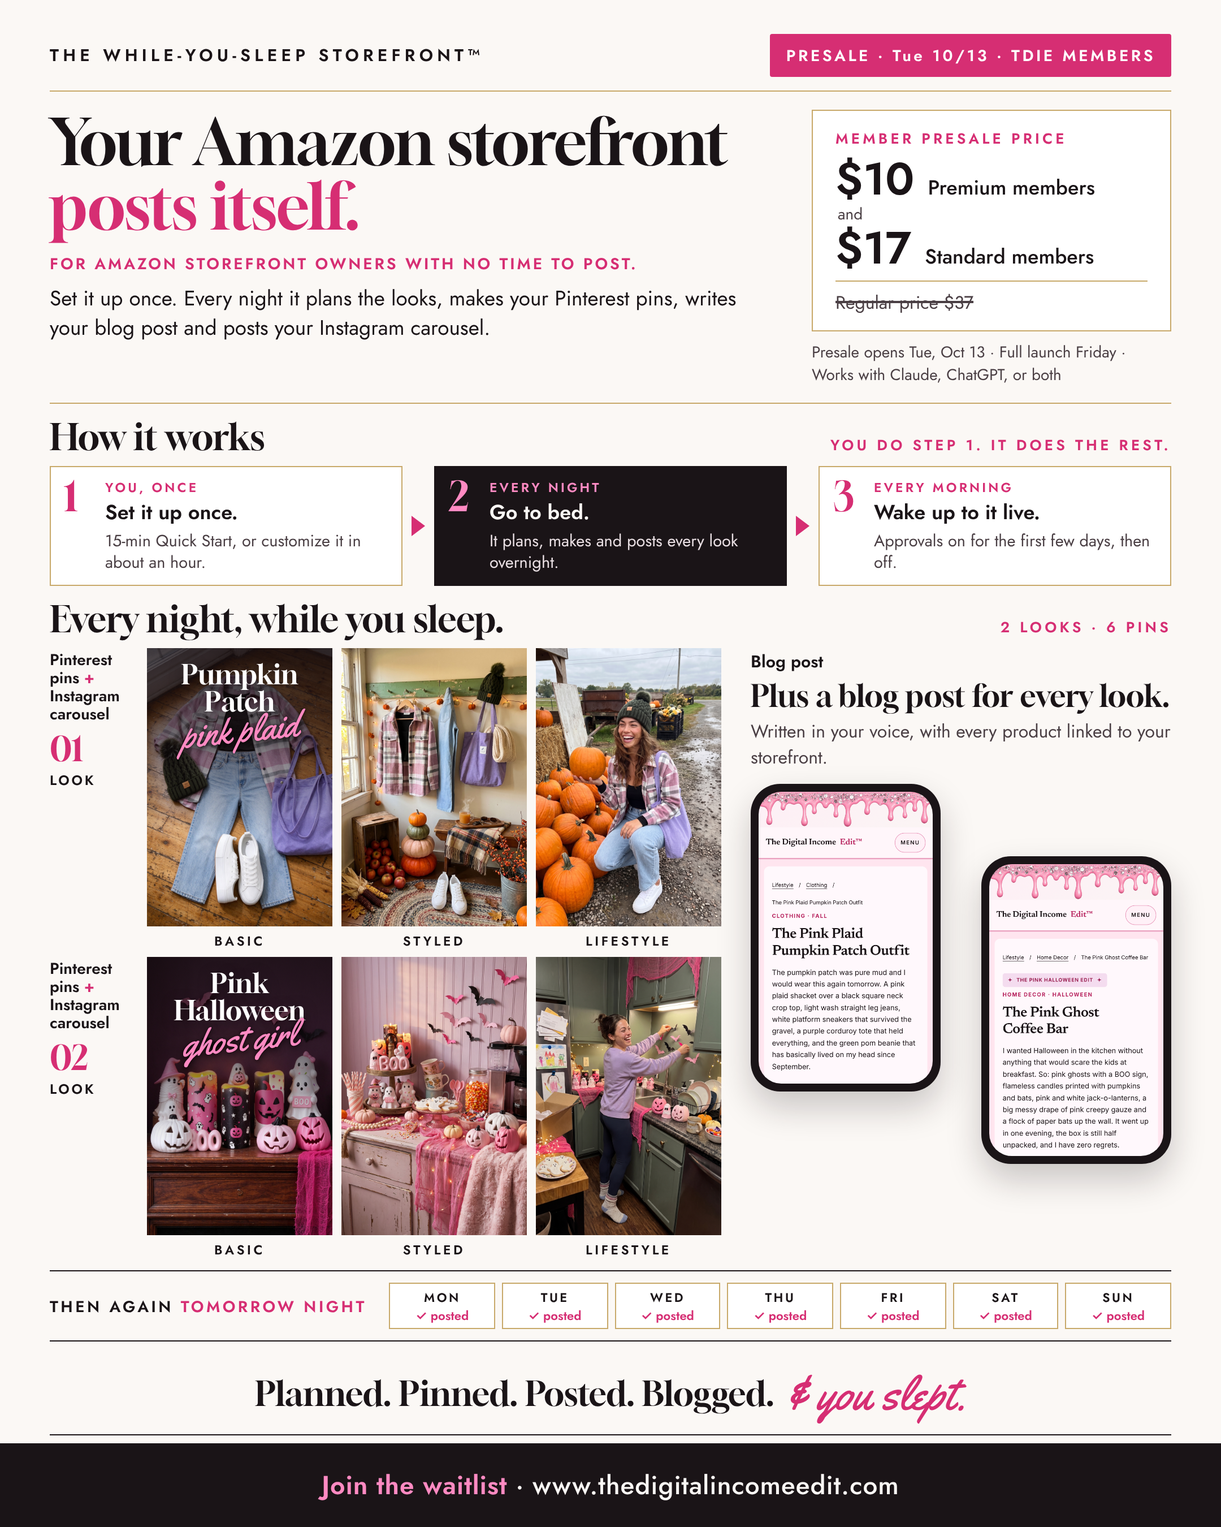
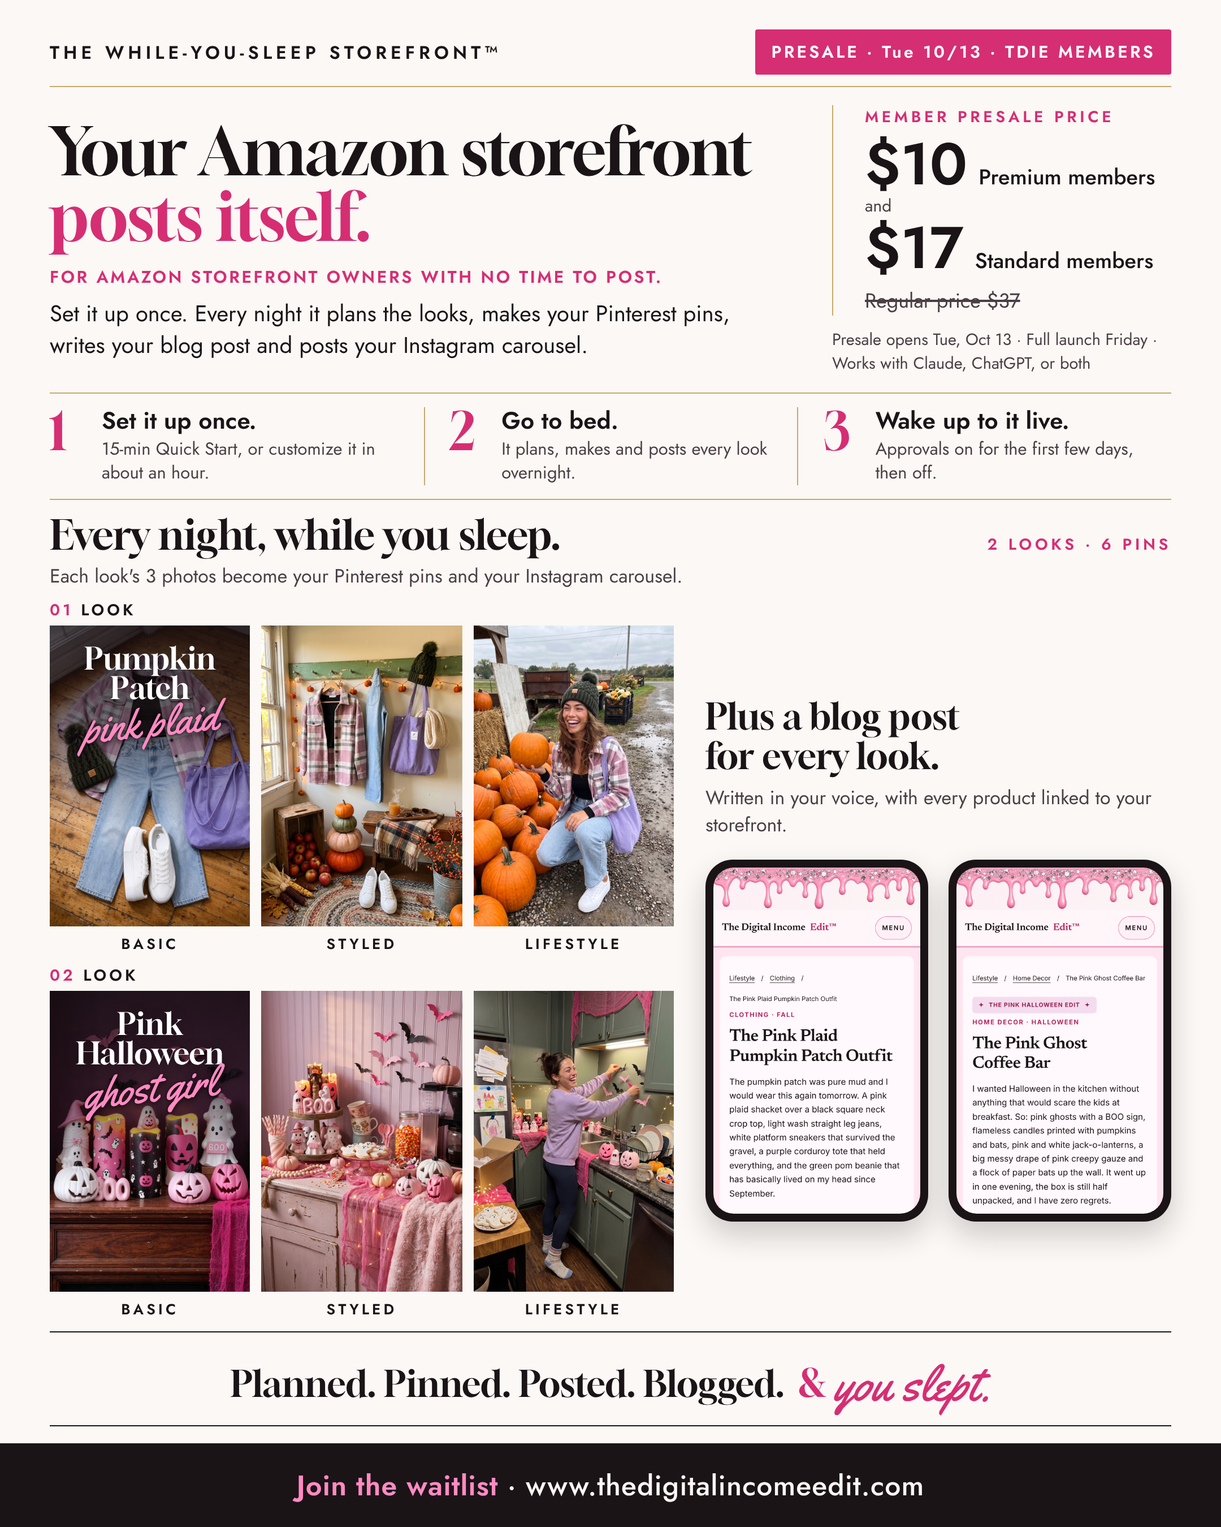
WYS poster: designer/customer audit pass
Remove week strip and label column, unbox steps, bigger photos, one-line
explanation that each look's photos are the pins and the carousel, phones
side by side, fix the script ampersand, balanced headline breaks.

Claude-Session: https://claude.ai/code/session_01PnXq8563XBZe9JqR7UM4ct

diff --git a/ops/posters/wys-presale-2026-10/poster.html b/ops/posters/wys-presale-2026-10/poster.html
@@ -7,154 +7,126 @@
 @font-face { font-family: "Gloock"; src: url("fonts/Gloock-Regular.ttf"); font-display: block; }
 @font-face { font-family: "Yellowtail"; src: url("fonts/Yellowtail-Regular.ttf"); font-display: block; }
 @font-face { font-family: "Jost"; src: url("fonts/Jost.ttf"); font-weight: 100 900; font-display: block; }
+:root { --cream:#FBF8F5; --ink:#1A1417; --hot:#D62E73; --bubble:#FF8AC2; --gold:#C8A96A; --muted:#4a3f44; --pad:44px; }
+* { box-sizing:border-box; margin:0; padding:0; }
+html, body { background:var(--cream); }
+body { width:1080px; color:var(--ink); font-family:"Jost",sans-serif; -webkit-font-smoothing:antialiased; }
+.poster { width:1080px; background:var(--cream); }
+.fb .poster { height:1350px; overflow:hidden; display:flex; flex-direction:column; }
+.inner { padding:0 var(--pad); }
+.fb .inner { flex:1; display:flex; flex-direction:column; }
+.gold-rule { height:1px; background:var(--gold); }
+.label { font-weight:600; font-size:14px; letter-spacing:0.2em; text-transform:uppercase; }
+.pink { color:var(--hot); }
 
-:root { --cream: #FBF8F5; --ink: #1A1417; --hot: #D62E73; --bubble: #FF8AC2; --gold: #C8A96A; --muted: #4a3f44; --pad: 44px; }
-* { box-sizing: border-box; margin: 0; padding: 0; }
-html, body { background: var(--cream); }
-body { width: 1080px; color: var(--ink); font-family: "Jost", sans-serif; -webkit-font-smoothing: antialiased; }
-.poster { width: 1080px; background: var(--cream); }
-.fb .poster { height: 1350px; overflow: hidden; display: flex; flex-direction: column; }
-.inner { padding: 0 var(--pad); }
-.fb .inner { flex: 1; display: flex; flex-direction: column; }
-.gold-rule { height: 1px; background: var(--gold); }
-.label { font-weight: 600; font-size: 13px; letter-spacing: 0.2em; text-transform: uppercase; }
-.pink { color: var(--hot); }
+.topline { display:flex; justify-content:space-between; align-items:center; padding:30px 0 12px; }
+.kicker { font-weight:600; font-size:16px; letter-spacing:0.22em; }
+.badge { background:var(--hot); color:#fff; font-weight:600; font-size:15px; letter-spacing:0.14em; padding:9px 14px; border-radius:2px; }
 
-/* top line */
-.topline { display: flex; justify-content: space-between; align-items: center; padding: 30px 0 12px; }
-.kicker { font-weight: 600; font-size: 15px; letter-spacing: 0.24em; }
-.badge { background: var(--hot); color: #fff; font-weight: 600; font-size: 14px; letter-spacing: 0.16em; padding: 9px 14px; border-radius: 2px; }
+.hero { display:grid; grid-template-columns:minmax(0,1fr) 300px; gap:40px; padding:20px 0 20px; align-items:center; }
+h1 { font-family:"Gloock",serif; font-weight:400; font-size:62px; line-height:1.0; letter-spacing:-0.01em; }
+h1 em { font-style:normal; color:var(--hot); }
+.who-for { font-weight:600; font-size:15px; letter-spacing:0.12em; text-transform:uppercase; color:var(--hot); margin-top:14px; }
+.sub { font-size:20px; line-height:1.4; margin-top:8px; }
+.price { padding-left:28px; border-left:1px solid var(--gold); }
+.price-row { display:flex; align-items:baseline; gap:10px; margin-top:6px; }
+.price-row .amt { font-weight:600; font-size:52px; line-height:1; }
+.price-row .who { font-size:19px; font-weight:500; line-height:1.1; }
+.price-and { font-size:15px; color:var(--muted); }
+.price-reg { margin-top:8px; font-size:18px; text-decoration:line-through; text-decoration-thickness:1.5px; color:var(--muted); }
+.sidenote { font-size:14.5px; line-height:1.45; margin-top:10px; color:var(--muted); }
 
-/* hero */
-.hero { display: grid; grid-template-columns: minmax(0, 1fr) 318px; gap: 36px; padding: 18px 0 18px; align-items: start; }
-h1 { font-family: "Gloock", serif; font-weight: 400; font-size: 56px; line-height: 1.02; letter-spacing: -0.01em; }
-h1 em { font-style: normal; color: var(--hot); }
-.who-for { font-weight: 600; font-size: 14px; letter-spacing: 0.14em; text-transform: uppercase; color: var(--hot); margin-top: 12px; }
-.sub { font-size: 18.5px; line-height: 1.42; margin-top: 8px; }
-.price { border: 1px solid var(--gold); background: #fff; padding: 15px 20px 13px; }
-.price-row { display: flex; align-items: baseline; gap: 12px; margin-top: 6px; }
-.price-row .amt { font-weight: 600; font-size: 44px; line-height: 1; }
-.price-row .who { font-size: 18px; font-weight: 500; }
-.price-and { font-size: 14px; color: var(--muted); margin-left: 2px; }
-.price-reg { margin-top: 8px; padding-top: 7px; border-top: 1px solid var(--gold); font-size: 16px; text-decoration: line-through; text-decoration-thickness: 1.5px; color: var(--muted); }
-.sidenote { font-size: 14px; line-height: 1.45; margin-top: 8px; color: var(--muted); }
+.steps { display:grid; grid-template-columns:repeat(3,minmax(0,1fr)); padding:16px 0; }
+.step { display:grid; grid-template-columns:38px minmax(0,1fr); gap:8px; padding:0 22px; border-left:1px solid var(--gold); }
+.step:first-child { border-left:0; padding-left:0; }
+.step .num { font-family:"Gloock",serif; font-size:46px; line-height:0.9; color:var(--hot); }
+.step b { display:block; font-weight:600; font-size:21px; line-height:1.15; }
+.step span { display:block; font-size:15.5px; line-height:1.35; margin-top:3px; color:var(--muted); }
 
-/* system: 3 steps as a flow */
-.sys-head { display: flex; justify-content: space-between; align-items: baseline; padding: 16px 0 10px; }
-h2 { font-family: "Gloock", serif; font-weight: 400; font-size: 32px; line-height: 1.1; }
-.flow { display: grid; grid-template-columns: minmax(0,1fr) 28px minmax(0,1fr) 28px minmax(0,1fr); align-items: stretch; }
-.stage { border: 1px solid var(--gold); background: #fff; padding: 12px 14px 12px; display: grid; grid-template-columns: 30px minmax(0,1fr); gap: 6px; }
-.stage .num { font-family: "Gloock", serif; font-size: 36px; line-height: 0.9; color: var(--hot); }
-.stage .when { font-weight: 600; font-size: 11.5px; letter-spacing: 0.18em; color: var(--hot); display: block; }
-.stage b { display: block; font-weight: 600; font-size: 18px; margin-top: 1px; }
-.stage span.t { display: block; font-size: 14.5px; line-height: 1.35; margin-top: 2px; color: var(--muted); }
-.stage.night { background: var(--ink); color: var(--cream); border-color: var(--ink); }
-.stage.night .num, .stage.night .when { color: var(--bubble); }
-.stage.night span.t { color: #e9dfe3; }
-.arrow { display: flex; align-items: center; justify-content: center; }
-.arrow::before { content: ""; width: 0; height: 0; border-top: 9px solid transparent; border-bottom: 9px solid transparent; border-left: 12px solid var(--hot); }
+.sec { padding:16px 0 12px; }
+.sec-top { display:flex; justify-content:space-between; align-items:baseline; }
+h2 { font-family:"Gloock",serif; font-weight:400; font-size:36px; line-height:1.08; }
+.sec p { font-size:17px; margin-top:4px; color:var(--muted); }
 
-/* outputs */
-.makes { display: flex; justify-content: space-between; align-items: baseline; padding: 16px 0 10px; }
-.out-grid { display: grid; grid-template-columns: minmax(0, 1fr) 292px; gap: 24px; }
-.channel { display: grid; grid-template-columns: 74px minmax(0, 1fr); gap: 12px; margin-bottom: 10px; }
-.ch-name { padding-top: 2px; }
-.ch-name .p { font-weight: 600; font-size: 15px; display: block; line-height: 1.15; }
-.ch-name .look { display: block; margin-top: 8px; font-family: "Gloock", serif; font-size: 30px; line-height: 1; color: var(--hot); }
-.ch-name .lw { font-weight: 600; font-size: 12px; letter-spacing: 0.16em; text-transform: uppercase; }
-.trio { display: grid; grid-template-columns: repeat(3, minmax(0, 1fr)); gap: 8px; }
-.shot { position: relative; aspect-ratio: 2 / 3; overflow: hidden; background: #eee; }
-.shot img { width: 100%; height: 100%; object-fit: cover; display: block; }
-.cap { font-weight: 600; font-size: 11.5px; letter-spacing: 0.2em; margin-top: 5px; text-align: center; }
+.grid { display:grid; grid-template-columns:minmax(0,1fr) 316px; gap:30px; }
+.look + .look { margin-top:12px; }
+.look-name { font-weight:600; font-size:14px; letter-spacing:0.18em; text-transform:uppercase; margin-bottom:6px; }
+.look-name .n { color:var(--hot); }
+.trio { display:grid; grid-template-columns:repeat(3,minmax(0,1fr)); gap:10px; }
+.shot { position:relative; aspect-ratio:2/3; overflow:hidden; background:#eee; }
+.shot img { width:100%; height:100%; object-fit:cover; display:block; }
+.cap { font-weight:600; font-size:13px; letter-spacing:0.2em; margin-top:6px; text-align:center; }
+.lockup { position:absolute; inset:0 0 auto 0; height:66%; padding:16px 8px 0; text-align:center;
+  background:linear-gradient(180deg, rgba(20,12,16,0.8) 0%, rgba(20,12,16,0.55) 50%, rgba(20,12,16,0) 100%); }
+.lockup .serif { font-family:"Gloock",serif; color:#fff; font-size:31px; line-height:0.98; display:block; text-shadow:0 2px 12px rgba(0,0,0,0.35); }
+.lockup .script { font-family:"Yellowtail",cursive; color:var(--bubble); font-size:42px; line-height:1; display:block; transform:rotate(-6deg); margin-top:-2px;
+  text-shadow:0 2px 6px rgba(0,0,0,0.6), 0 0 2px rgba(0,0,0,0.6); }
 
-.lockup { position: absolute; inset: 0 0 auto 0; height: 68%; padding: 12px 6px 0; text-align: center;
-  background: linear-gradient(180deg, rgba(20,12,16,0.8) 0%, rgba(20,12,16,0.56) 50%, rgba(20,12,16,0) 100%); }
-.lockup .serif { font-family: "Gloock", serif; color: #fff; font-size: 27px; line-height: 0.98; display: block; text-shadow: 0 2px 12px rgba(0,0,0,0.35); }
-.lockup .script { font-family: "Yellowtail", cursive; color: var(--bubble); font-size: 36px; line-height: 1; display: block; transform: rotate(-6deg); margin-top: -2px;
-  text-shadow: 0 2px 6px rgba(0,0,0,0.6), 0 0 2px rgba(0,0,0,0.6); }
+.blog h3 { font-family:"Gloock",serif; font-weight:400; font-size:30px; line-height:1.1; }
+.blog p { font-size:17px; line-height:1.4; margin-top:8px; color:var(--muted); }
+.phones { display:grid; grid-template-columns:1fr 1fr; gap:14px; margin-top:18px; align-items:start; }
+.phone { background:var(--ink); border-radius:24px; padding:7px; box-shadow:0 12px 26px rgba(26,20,23,0.2); }
+.phone img { display:block; width:100%; border-radius:18px; }
 
-.blog .p { font-weight: 600; font-size: 15px; }
-.blog h3 { font-family: "Gloock", serif; font-weight: 400; font-size: 24px; line-height: 1.12; margin-top: 4px; }
-.blog p { font-size: 15px; line-height: 1.4; margin-top: 6px; color: var(--muted); }
-.phones { position: relative; height: 330px; margin-top: 12px; }
-.phone { position: absolute; width: 150px; background: var(--ink); border-radius: 26px; padding: 7px; box-shadow: 0 14px 30px rgba(26,20,23,0.22); }
-.phone img { display: block; width: 100%; border-radius: 20px; }
-.phone.p1 { left: 0; top: 0; }
-.phone.p2 { right: 0; top: 70px; }
+.phrase { border-top:1px solid var(--ink); border-bottom:1px solid var(--ink); text-align:center; padding:12px 0 10px; margin-top:14px; }
+.phrase .p { font-family:"Gloock",serif; font-size:32px; }
+.phrase .s { font-family:"Yellowtail",cursive; color:var(--hot); font-size:44px; margin-left:12px; position:relative; top:3px; }
+.phrase .amp { font-family:"Gloock",serif; font-size:34px; margin-right:6px; position:relative; top:-3px; }
 
-/* destination + week */
-.dest { display: grid; grid-template-columns: auto minmax(0,1fr); gap: 20px; align-items: center; border-top: 1px solid var(--ink); border-bottom: 1px solid var(--ink); padding: 10px 0; margin-top: 4px; }
-.dest .to { font-weight: 600; font-size: 14px; letter-spacing: 0.16em; text-transform: uppercase; }
-.dest .to b { color: var(--hot); font-weight: 600; }
-.week { display: grid; grid-template-columns: repeat(7, minmax(0,1fr)); gap: 6px; }
-.day { text-align: center; border: 1px solid var(--gold); padding: 4px 0 3px; background: #fff; }
-.day .d { font-weight: 600; font-size: 11px; letter-spacing: 0.16em; display: block; }
-.day .c { font-size: 11px; color: var(--hot); font-weight: 600; display: block; }
-
-/* phrase */
-.phrase { text-align: center; padding: 14px 0 10px; }
-.phrase .p { font-family: "Gloock", serif; font-size: 30px; }
-.phrase .s { font-family: "Yellowtail", cursive; color: var(--hot); font-size: 42px; margin-left: 10px; position: relative; top: 3px; }
-.phrase-wrap { border-bottom: 1px solid var(--ink); }
-
-/* bar */
-.bar { background: var(--ink); color: var(--cream); text-align: center; padding: 20px var(--pad); font-size: 23px; font-weight: 500; letter-spacing: 0.02em; }
-.bar .j { color: var(--bubble); font-weight: 600; }
-.fb .bar { margin-top: auto; }
+.bar { background:var(--ink); color:var(--cream); text-align:center; padding:22px var(--pad); font-size:25px; font-weight:500; letter-spacing:0.02em; }
+.bar .j { color:var(--bubble); font-weight:600; }
+.fb .bar { margin-top:auto; }
 
 /* fb fit */
-.fb .out-grid { grid-template-columns: minmax(0,1fr) 372px; gap: 26px; }
-.fb .phones { height: 300px; }
-.fb .phone { width: 168px; }
-.fb .phone.p2 { top: 64px; }
-.fb .blog h3 { font-size: 27px; }
-.fb .blog p { font-size: 16px; }
-.fb .sys-head, .fb .makes { padding: 12px 0 8px; }
-.fb .stage { padding: 10px 12px; }
-.fb .price-row .amt { font-size: 40px; }
-.fb .hero { padding: 16px 0 14px; }
-.fb .lockup .serif { font-size: 24px; }
-.fb .lockup .script { font-size: 32px; }
-.fb .channel { margin-bottom: 6px; }
+.fb .grid { grid-template-columns:minmax(0,1fr) 396px; gap:28px; }
+.fb h1 { font-size:58px; }
+.fb .hero { padding:16px 0; }
+.fb .steps { padding:12px 0; }
+.fb .sec { padding:12px 0 8px; }
+.fb .topline { padding:26px 0 10px; }
+.fb .look + .look { margin-top:8px; }
+.fb .look-name { margin-bottom:4px; }
+.fb .lockup .serif { font-size:27px; }
+.fb .lockup .script { font-size:37px; }
+.fb .phrase { margin-top:10px; }
+.fb .blog h3 { font-size:32px; }
+.fb .phones { gap:18px; }
 
-.ch-name .plus { color: var(--hot); }
-.fb .ch-name .p { font-size: 14px; }
+.fb .grid { grid-template-columns:minmax(0,1fr) 412px; }
+.fb .bar { padding:19px var(--pad); }
 
-/* Skool (tall) */
-.skool .hero { padding: 34px 0 34px; }
-.skool h1 { font-size: 68px; }
-.skool .sub { font-size: 20px; }
-.skool .sys-head, .skool .makes { padding: 28px 0 16px; }
-.skool h2 { font-size: 40px; }
-.skool .stage { padding: 18px 18px; }
-.skool .stage b { font-size: 21px; }
-.skool .stage span.t { font-size: 16px; }
-.skool .out-grid { display: block; }
-.skool .channel { grid-template-columns: 96px minmax(0,1fr); gap: 16px; margin-bottom: 26px; }
-.skool .ch-name .p { font-size: 18px; }
-.skool .ch-name .look { font-size: 44px; }
-.skool .trio { gap: 14px; }
-.skool .lockup { padding-top: 22px; }
-.skool .lockup .serif { font-size: 50px; }
-.skool .lockup .script { font-size: 64px; margin-top: -4px; }
-.skool .cap { font-size: 14px; margin-top: 8px; }
-.skool .blog { display: grid; grid-template-columns: minmax(0,1fr) 520px; gap: 36px; align-items: center; padding: 10px 0 30px; }
-.skool .blog h3 { font-size: 38px; }
-.skool .blog p { font-size: 19px; }
-.skool .blog .p { font-size: 18px; }
-.skool .phones { position: static; height: auto; margin: 0; display: grid; grid-template-columns: 1fr 1fr; gap: 22px; align-items: start; }
-.skool .phone { position: static; width: auto; padding: 9px; border-radius: 30px; }
-.skool .phone img { border-radius: 22px; }
-.skool .phone.p2 { margin-top: 60px; }
-.skool .dest { padding: 18px 0; }
-.skool .dest .to { font-size: 16px; }
-.skool .day { padding: 8px 0 6px; }
-.skool .day .d, .skool .day .c { font-size: 13px; }
-.skool .phrase { padding: 24px 0 20px; }
-.skool .phrase .p { font-size: 38px; }
-.skool .phrase .s { font-size: 52px; }
-.skool .bar { padding: 28px var(--pad); font-size: 26px; }
-.skool .phrase-wrap { margin-bottom: 36px; }
+.blog h3 { text-wrap: balance; }
+.fb .grid { align-items: center; }
+
+h1 em { display:block; }
+.skool h1 { font-size:76px; }
+
+/* Skool */
+.skool .hero { padding:36px 0; }
+.skool h1 { font-size:72px; }
+.skool .steps { padding:28px 0; }
+.skool .sec { padding:30px 0 18px; }
+.skool h2 { font-size:44px; }
+.skool .sec p { font-size:20px; }
+.skool .grid { display:block; }
+.skool .look + .look { margin-top:28px; }
+.skool .look-name { font-size:16px; margin-bottom:10px; }
+.skool .trio { gap:14px; }
+.skool .lockup { padding-top:24px; }
+.skool .lockup .serif { font-size:52px; }
+.skool .lockup .script { font-size:68px; }
+.skool .cap { font-size:15px; margin-top:8px; }
+.skool .blog { display:grid; grid-template-columns:minmax(0,1fr) 520px; gap:40px; align-items:center; margin-top:40px; padding-top:36px; border-top:1px solid var(--gold); }
+.skool .blog h3 { font-size:42px; }
+.skool .blog p { font-size:20px; }
+.skool .phones { gap:22px; margin-top:0; }
+.skool .phone { padding:9px; border-radius:30px; }
+.skool .phone img { border-radius:22px; }
+.skool .phrase { margin-top:44px; padding:22px 0 18px; }
+.skool .phrase .p { font-size:40px; }
+.skool .phrase .s { font-size:56px; }
+.skool .phrase .amp { font-size:42px; }
+.skool .bar { margin-top:44px; padding:30px var(--pad); font-size:28px; }
 </style>
 </head>
 <body>
@@ -185,34 +157,30 @@ h2 { font-family: "Gloock", serif; font-weight: 400; font-size: 32px; line-heigh
     </section>
     <div class="gold-rule"></div>
 
-    <div class="sys-head">
-      <h2>How it works</h2>
-      <span class="label pink">You do step 1. It does the rest.</span>
-    </div>
-    <section class="flow">
-      <div class="stage"><div class="num">1</div><div><span class="when">YOU, ONCE</span><b>Set it up once.</b><span class="t">15-min Quick Start, or customize it in about an hour.</span></div></div>
-      <div class="arrow"></div>
-      <div class="stage night"><div class="num">2</div><div><span class="when">EVERY NIGHT</span><b>Go to bed.</b><span class="t">It plans, makes and posts every look overnight.</span></div></div>
-      <div class="arrow"></div>
-      <div class="stage"><div class="num">3</div><div><span class="when">EVERY MORNING</span><b>Wake up to it live.</b><span class="t">Approvals on for the first few days, then off.</span></div></div>
+    <section class="steps">
+      <div class="step"><div class="num">1</div><div><b>Set it up once.</b><span>15-min Quick Start, or customize it in about an hour.</span></div></div>
+      <div class="step"><div class="num">2</div><div><b>Go to bed.</b><span>It plans, makes and posts every look overnight.</span></div></div>
+      <div class="step"><div class="num">3</div><div><b>Wake up to it live.</b><span>Approvals on for the first few days, then off.</span></div></div>
+    </section>
+    <div class="gold-rule"></div>
+
+    <section class="sec">
+      <div class="sec-top"><h2>Every night, while you sleep.</h2><span class="label pink">2 LOOKS · 6 PINS</span></div>
+      <p>Each look's 3 photos become your Pinterest pins and your Instagram carousel.</p>
     </section>
 
-    <div class="makes">
-      <h2>Every night, while you sleep.</h2>
-      <span class="label pink">2 LOOKS · 6 PINS</span>
-    </div>
-    <div class="out-grid">
+    <div class="grid">
       <section>
-        <div class="channel">
-          <div class="ch-name"><span class="p">Pinterest pins <span class="plus">+</span> Instagram carousel</span><span class="look">01</span><span class="lw">Look</span></div>
+        <div class="look">
+          <div class="look-name"><span class="n">01</span> Look</div>
           <div class="trio">
             <div><div class="shot"><img src="img/pink-plaid-pumpkin-patch-outfit-basic.jpg" alt=""><div class="lockup"><span class="serif">Pumpkin<br>Patch</span><span class="script">pink plaid</span></div></div><div class="cap">BASIC</div></div>
             <div><div class="shot"><img src="img/pink-plaid-pumpkin-patch-outfit-styled.jpg" alt=""></div><div class="cap">STYLED</div></div>
             <div><div class="shot"><img src="img/pink-plaid-pumpkin-patch-outfit-lifestyle.png" alt="" style="object-position:62% 50%"></div><div class="cap">LIFESTYLE</div></div>
           </div>
         </div>
-        <div class="channel">
-          <div class="ch-name"><span class="p">Pinterest pins <span class="plus">+</span> Instagram carousel</span><span class="look">02</span><span class="lw">Look</span></div>
+        <div class="look">
+          <div class="look-name"><span class="n">02</span> Look</div>
           <div class="trio">
             <div><div class="shot"><img src="img/pink-ghost-coffee-bar-basic.jpg" alt=""><div class="lockup"><span class="serif">Pink<br>Halloween</span><span class="script">ghost girl</span></div></div><div class="cap">BASIC</div></div>
             <div><div class="shot"><img src="img/pink-ghost-coffee-bar-styled.jpg" alt=""></div><div class="cap">STYLED</div></div>
@@ -222,33 +190,17 @@ h2 { font-family: "Gloock", serif; font-weight: 400; font-size: 32px; line-heigh
       </section>
       <section class="blog">
         <div>
-          <span class="p">Blog post</span>
           <h3>Plus a blog post for every look.</h3>
           <p>Written in your voice, with every product linked to your storefront.</p>
         </div>
         <div class="phones">
-          <div class="phone p1"><img src="img/blog-pink-plaid-pumpkin-patch-outfit.png" alt=""></div>
-          <div class="phone p2"><img src="img/blog-pink-ghost-coffee-bar.png" alt=""></div>
+          <div class="phone"><img src="img/blog-pink-plaid-pumpkin-patch-outfit.png" alt=""></div>
+          <div class="phone"><img src="img/blog-pink-ghost-coffee-bar.png" alt=""></div>
         </div>
       </section>
     </div>
 
-    <section class="dest">
-      <div class="to">Then again <b>tomorrow night</b></div>
-      <div class="week">
-        <div class="day"><span class="d">MON</span><span class="c">✓ posted</span></div>
-        <div class="day"><span class="d">TUE</span><span class="c">✓ posted</span></div>
-        <div class="day"><span class="d">WED</span><span class="c">✓ posted</span></div>
-        <div class="day"><span class="d">THU</span><span class="c">✓ posted</span></div>
-        <div class="day"><span class="d">FRI</span><span class="c">✓ posted</span></div>
-        <div class="day"><span class="d">SAT</span><span class="c">✓ posted</span></div>
-        <div class="day"><span class="d">SUN</span><span class="c">✓ posted</span></div>
-      </div>
-    </section>
-
-    <div class="phrase-wrap">
-      <section class="phrase"><span class="p">Planned. Pinned. Posted. Blogged.</span><span class="s">&amp; you slept.</span></section>
-    </div>
+    <section class="phrase"><span class="p">Planned. Pinned. Posted. Blogged.</span><span class="s"><span class="amp">&amp;</span>you slept.</span></section>
   </div>
   <div class="bar"><span class="j">Join the waitlist</span> · www.thedigitalincomeedit.com</div>
 </div>
